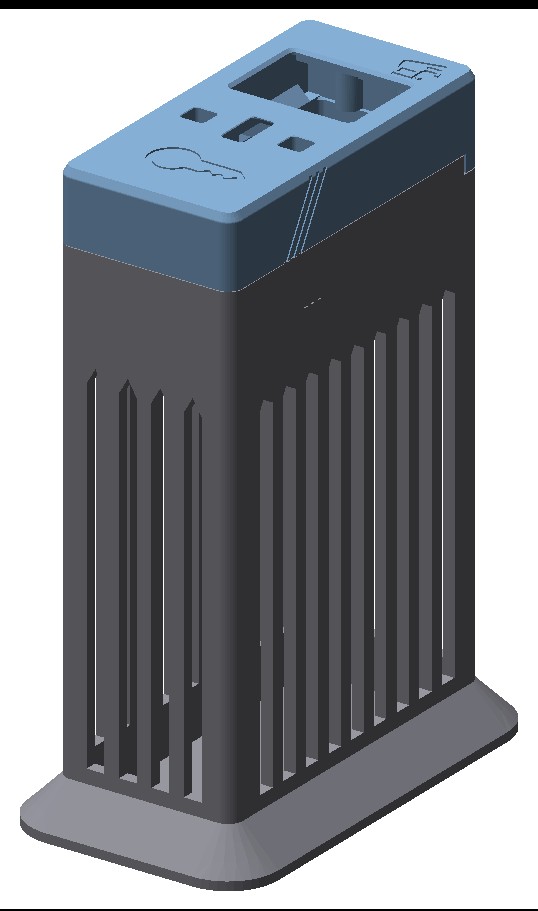
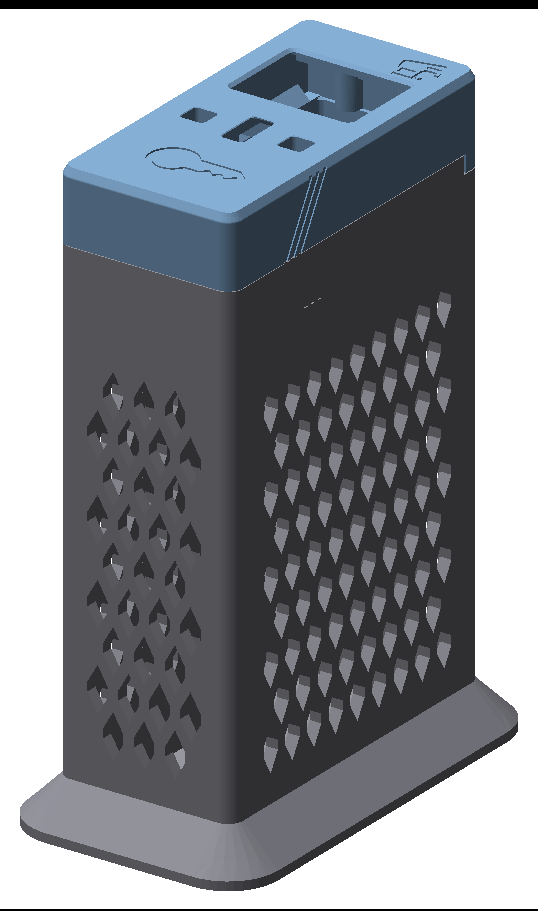
Describe the phone vault honeycomb
The phone vault's bars become a honeycomb that does not snap by hand;
update the listing, preview and section images, and bump mod_version.

Claude-Session: https://claude.ai/code/session_015TvGgEGQYD1H5vnWNQnCo3

Changed region(s): [[0.4758, 0.3074, 0.8625, 0.8913], [0.1487, 0.3996, 0.3866, 0.8913]]

diff --git a/mods/lockbox/phone-vault/README.md b/mods/lockbox/phone-vault/README.md
@@ -1,14 +1,14 @@
 # Phone Vault
 
-<img src="img/phone-vault.png" alt="Lockbox on a tall barred vault" width="360" />
+<img src="img/phone-vault.png" alt="Lockbox on a tall honeycomb vault" width="360" />
 
-A replacement bottom housing for the Lockbox. It locks away a phone or a pack of cigarettes, and vertical bars keep the item in view. The stock top housing slides on and latches as usual.
+A replacement bottom housing for the Lockbox. It locks away a phone or a pack of cigarettes, and a honeycomb wall keeps the item in view. The stock top housing slides on and latches as usual.
 
-[Print (STL)](print/phone-vault.stl) · [Edit (FreeCAD)](cad/phone-vault.FCStd) · [STEP](cad/phone-vault.step) · [Sections](img/phone-vault-sections.png)
+[Print (STL)](print/phone-vault.stl) · [Edit (FreeCAD)](cad/phone-vault.FCStd) · [STEP](cad/phone-vault.step) · [Sections](img/phone-vault-sections.png) · [Honeycomb](img/phone-vault-wall.png)
 
 - Holds a phone up to about 165 × 78 × 9 mm in a case, or a king-size pack, standing on end.
-- Print upright on the base, opening up. The bars and foot need no supports. The part is 178.5 mm tall and fits an A1 mini.
+- Print upright on the base, opening up. The honeycomb and foot need no supports. The part is 178.5 mm tall and fits an A1 mini.
 - Press the back magnet into the new top pocket, south side up. Then glue the four rubber feet to the base.
 - The Lockbox stand does not fit this part.
 
-Design by Research and Desire, based on the Lockbox bottom housing. Licensed under CERN-OHL-S v2 (see [LICENSE](LICENSE)). The FreeCAD `Params` sheet sets the depth, wall and bar sizes.
+Design by Research and Desire, based on the Lockbox bottom housing. Licensed under CERN-OHL-S v2 (see [LICENSE](LICENSE)). The FreeCAD `Params` sheet sets the depth, wall and honeycomb sizes.
